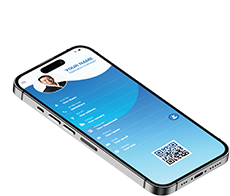
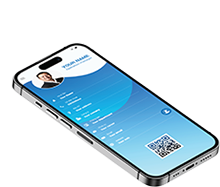
update section circle contact

diff --git a/index.html b/index.html
@@ -56,31 +56,41 @@
         <section class="intro_mcard">
             <div class="container">
                 <div class="title_intro text-center py-5">
-                    <h1 class="text-blue-homepage">THÔNG TIN CÁ NHÂN THỜI ĐẠI SỐ</h1>
-                    <span class="text-blue-light-homepage fs-3">www.mcards.vn</span>
+                    <h2 class="text-blue-homepage">THÔNG TIN CÁ NHÂN THỜI ĐẠI SỐ</h1>
+                        <span class="text-blue-light-homepage fs-3">www.mcards.vn</span>
                 </div>
-                <div class="row mx-auto justify-content-center">
+                <div class="row mx-auto justify-content-center align-items-center">
                     <div class="intro_left_img col-md-6 col-6">
-                        <img src="./images/intro_left.png" alt="intro_left">
+                        <img src="./images/intro_left.png" alt="intro_left"
+                            class="animate__animated animate__fadeInLeft animate__delay-1s">
                     </div>
                     <div class="intro_right_img col-md-6 col-6">
-                        <img src="./images/intro_right.png" alt="intro_right">
+                        <img src="./images/intro_right.png" alt="intro_right"
+                            class="animate__animated animate__fadeInRight animate__delay-1s">
                     </div>
                 </div>
             </div>
         </section>
-        <section class="touch_QR">
+        <section class="touch_QR d-flex justify-content-center align-items-center">
             <div class="container">
-                <div class="row mx-auto justify-content-center align-item-center py-5">
+                <div class="row mx-auto justify-content-center align-item-center">
                     <div class="touch_left col-md-6 col-6">
-                        <img src="./images/QR_touch_left.png" alt="intro_left">
+                        <img src="./images/QR_touch_left.png" alt="touch_left"
+                            class="animate__animated animate__fadeInLeft animate__delay-3s">
                     </div>
                     <div class="touch_right col-md-6 col-6">
                         <!-- <span class="text-white text-center ms-4">Lưu thông tin đơn giản chỉ với</span>
                         <h4 class="text-white text-left">1 lần chạm mã QR CODE</h4> -->
-                        <img class="phone_bottom_right" src="./images/QR_touch_right.png" alt="intro_left">
+                        <img src="./images/QR_touch_right.png" alt="touch_right"
+                            class="animate__animated animate__fadeInRight animate__delay-3s">
                     </div>
                 </div>
+            </div>
+        </section>
+        <section class="circle_contact d-flex justify-content-center align-items-center">
+            <div class="image-override p-3">
+                <img src="./images/contact_icon_circle.png" alt="icon_circle" class="wow animate__animated animate__rotateIn animate__delay-2s">
+                <img src="./images/QR_Circle.png" alt="QR_circle" class="wow animate__animated animate__zoomIn animate__delay-1s">
             </div>
         </section>
         <div class="container">

diff --git a/css/homepage.css b/css/homepage.css
@@ -140,7 +140,7 @@ body {
 nav.navbar {
   background: url("../images/navbar_bg.png");
   background-size: cover;
-  background-position: center center;
+  background-position: left center;
   min-height: 100px;
 }
 nav.navbar .mcard_ecormerce i:hover {
@@ -148,6 +148,9 @@ nav.navbar .mcard_ecormerce i:hover {
   transition: all 0.3s;
 }
 /* intro section */
+.intro_mcard {
+  background-color: #f2f2f2;
+}
 .intro_left_img img,
 .intro_right_img img {
   width: 100%;
@@ -155,18 +158,35 @@ nav.navbar .mcard_ecormerce i:hover {
 /* QR-touch section */
 .touch_QR {
   background: url("../images/info_conect_bg.png");
-  background-size: contain;
+  background-size: cover;
   background-repeat: no-repeat;
-  min-height: 400px;
+  min-height: 250px;
   width: 100%;
 }
-.touch_QR .phone_bottom_right{
+/* .touch_QR .phone_bottom_right{
   position: relative;
   right: 0;
-}
+} */
 .touch_left_img img {
   width: 100%;
 }
 .touch_right_img img {
   width: 100%;
+}
+/* Circle Contact */
+.circle_contact {
+  background-color: #f2f2f2;
+  background: url("../images/circle_contact_bg.png");
+  background-size: cover;
+  background-repeat: no-repeat;
+  background-position: center center;
+  min-height: 400px;
+}
+.circle_contact .image-override {
+  position: relative;
+  width: 300px;
+  height: 300px;
+}
+.circle_contact .image-override img {
+  position: absolute;
 }
